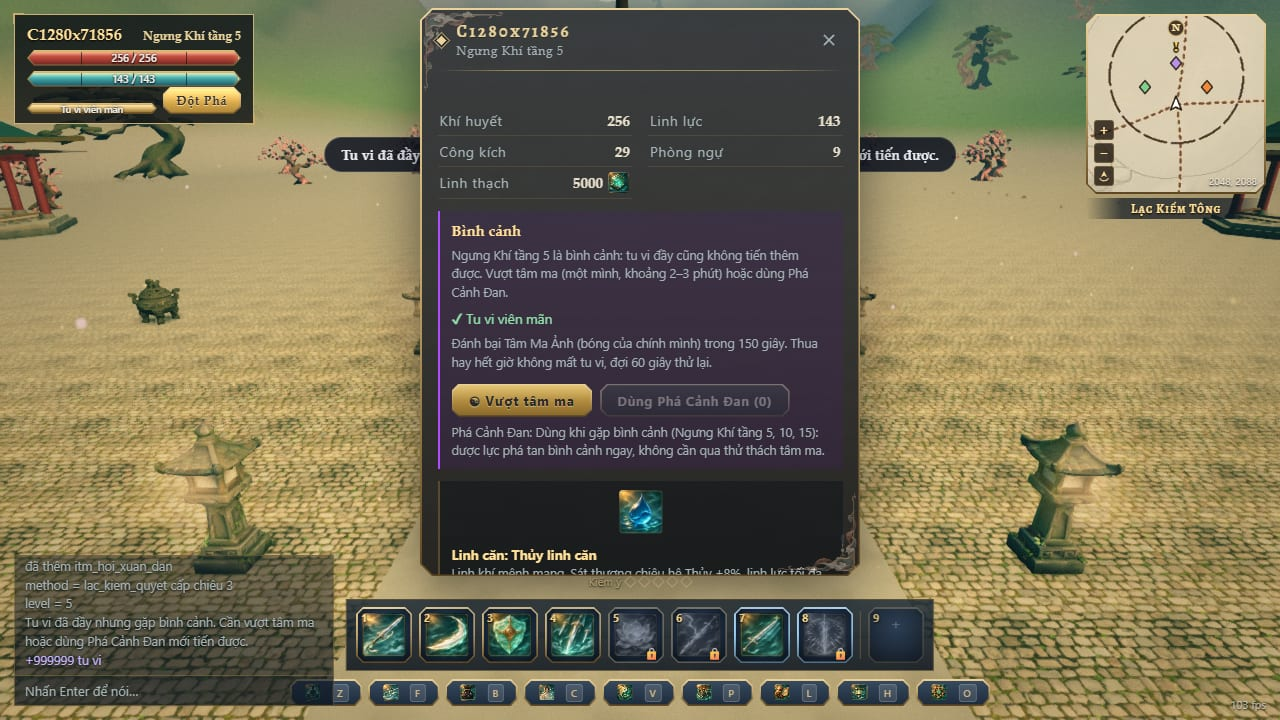
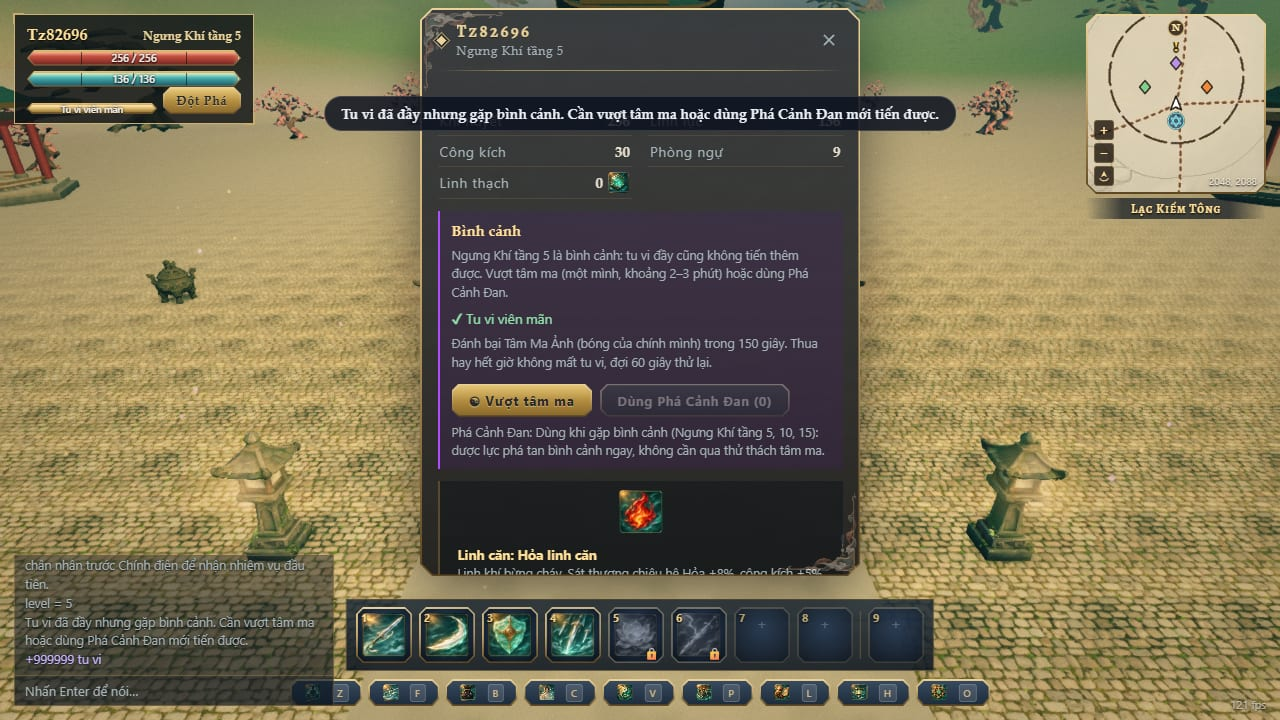
fix(ui): hook trước return sớm trong PlayerFrame, toast nằm trên bảng, khung đăng nhập không chạm phụ đề ở màn thấp

diff --git a/apps/client/src/styles.css b/apps/client/src/styles.css
@@ -438,6 +438,22 @@ kbd {
   color: #29292c;
   animation: ts-card-in 0.6s ease-out both;
 }
+/* Màn thấp (≤ 800 px): khung đăng nhập hạ xuống và gọn lại để dòng phụ đề dưới tiêu đề không chạm mép trên khung. */
+@media (max-height: 800px) {
+  .ts-sub {
+    margin-bottom: 22px;
+  }
+  /* Khung rộng hơn để các hàng lựa chọn nằm một dòng, và không cao quá phần màn hình còn lại dưới phụ đề
+     (đỉnh khung ≈ 15vh + tiêu đề + phụ đề + 22 px); nội dung dài hơn thì cuộn trong khung. */
+  .ts-card {
+    width: min(92vw, 620px);
+    margin-bottom: 3vh;
+    padding: 12px 28px 14px;
+    max-height: calc(84vh - clamp(64px, 10.5vw, 148px) * 1.1 - 56px);
+    overflow-y: auto;
+    scrollbar-width: thin;
+  }
+}
 @keyframes ts-card-in {
   from {
     opacity: 0;

diff --git a/apps/client/src/ui/Hud.tsx b/apps/client/src/ui/Hud.tsx
@@ -24,8 +24,9 @@ function PlayerFrame() {
   const mhp = useUI((s) => s.mhp);
   const mp = useUI((s) => s.mp);
   const mmp = useUI((s) => s.mmp);
-  if (!char) return null;
+  // Mọi hook phải đứng trước lệnh return sớm (store khởi đầu với char = null).
   const flags = useUI((s) => s.flags);
+  if (!char) return null;
   const goal = breakGoal(char);
   // Đang độ kiếp thì không mời đột phá nữa.
   if (flags & PF_TRIBULATION) goal.ready = false;

diff --git a/apps/client/src/ui/tutien.css b/apps/client/src/ui/tutien.css
@@ -243,3 +243,12 @@
   font-size: calc(14px * var(--s));
   opacity: 0.85;
 }
+
+/* ---------- thông báo nổi nằm trên bảng ----------
+ * Toast (ví dụ "Tu vi đã đầy nhưng gặp bình cảnh…") trước đây nằm dưới bảng đang mở nên bị che giữa câu.
+ * Đưa lên trên bảng, dưới tooltip; không nhận chuột để không chặn nút đóng bảng.
+ */
+.hud .toasts {
+  z-index: 55;
+  pointer-events: none;
+}

diff --git a/docs/ui-tutien/README.md b/docs/ui-tutien/README.md
@@ -13,6 +13,12 @@
 | T9 | Thanh chiêu dựng lại mỗi lần vị trí đổi | `SkillBar` đăng ký `x`, `y`, `z` của store chỉ để biết đang lơ lửng | Engine tính một cờ `airborne` |
 | | Thanh đếm độ kiếp, dòng chữ có gạch dài và emoji | | HUD độ kiếp theo bộ khung: tiêu đề serif, thanh đếm `ProgressBar`, một dòng gợi ý |
 
+Sửa sau khi soát ảnh và review (2026-11-16):
+
+- `PlayerFrame` gọi `useUI` sau lệnh `return` sớm (vi phạm Rules of Hooks, có thể làm sập HUD khi `char` chuyển từ null sang có): đã đưa hook lên trước.
+- Toast nằm dưới bảng đang mở nên bị che giữa câu: lớp `.toasts` giờ có `z-index: 55` (trên bảng, dưới tooltip), không nhận chuột.
+- Màn tiêu đề ở màn thấp (≤ 800 px): phụ đề "Huyền Linh Giới · Vân Lam Sơn Mạch" chạm mép trên khung đăng nhập. Khung giờ rộng 620 px, cách phụ đề 22 px, cao tối đa bằng phần màn hình còn lại và cuộn bên trong (`man-tieu-de-1280.jpg`).
+
 ## Thêm mới
 
 - **Nút Đột Phá** trên khung nhân vật: sáng khi tu vi đầy ở bình cảnh (tầng 5/10/15) hoặc ở tầng 15 viên mãn. Bấm thì mở bảng Nhân vật; khối bình cảnh/độ kiếp đã được đưa lên ngay dưới thanh tu vi. Nút **không** tự bắt đầu độ kiếp: độ kiếp tốn Trúc Cơ Đan nên vẫn cần bấm trong bảng. Logic ở `ui/breakGoal.ts` (hàm thuần, có test); server vẫn kiểm mọi điều kiện.
@@ -68,7 +74,9 @@ Script Playwright (Chrome headless có GPU, `?mute=1`, `--mute-audio`) ở ba đ
 
 ![Túi trữ vật và tooltip, 2560×1440](tui-tooltip-2560.jpg)
 
-![Nút Đột Phá mở bảng Nhân vật](dot-pha-nhan-vat-1280.jpg)
+![Nút Đột Phá mở bảng Nhân vật, toast nằm trên bảng](dot-pha-nhan-vat-1280.jpg)
+
+![Màn tiêu đề 1280×720](man-tieu-de-1280.jpg)
 
 ![Chiến đấu: bảng tên, hồi chiêu vòng linh văn](chien-dau-1280.jpg)
 
